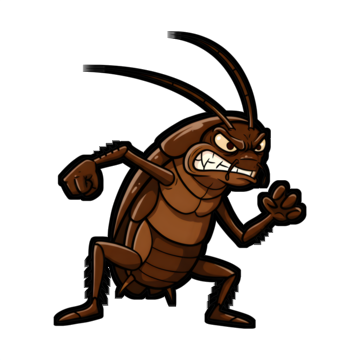
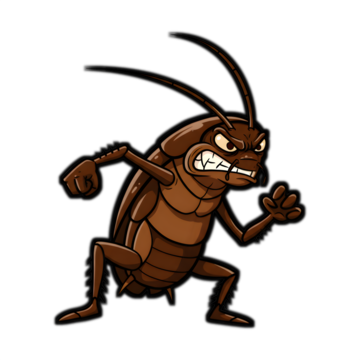
🪳 Zerg meter: decay to blue is now slow and gradual — 10 s wait, then the next 10 s sinking (or rising) to the player's own value on a linear glide (a new fight interrupts it at once); roach outline 2px black, smooth (soft edge) and meter outline 2px black with rounded corners; mark numbers 30% smal

diff --git a/zerg-meter.html b/zerg-meter.html
@@ -18,11 +18,12 @@
      in <head> before the first paint, so there is no black flash. */
   html.zm-transparent, html.zm-transparent body { background: transparent; }
   body { min-height: 100vh; min-height: 100dvh; display: grid; place-items: center; overflow: hidden; }
-  .zm { position: relative; height: min(96vh, 96dvh); aspect-ratio: 480 / 2239; outline: 2px solid #000; }
+  .zm { position: relative; height: min(96vh, 96dvh); aspect-ratio: 480 / 2239; outline: 2px solid #000; border-radius: 12px; }
   /* 2px black outline for the meter itself (owner 2026-11-13): it frames
      the meter on a stream overlay (invisible on the black page, where the
      background is already black). An outline, not a border, so it adds no
-     size and cannot push the meter off the viewport. */
+     size and cannot push the meter off the viewport. The rounded corners
+     (the outline follows the radius) keep it smooth, like the roach's. */
   .zm-bg { position: absolute; inset: 0; width: 100%; height: 100%; display: block; }
   /* Roach rides the bar (bar centre 35.27% of the image width); the laser
      runs at its eye level (41.4% of the sprite height) from just behind the
@@ -58,7 +59,7 @@
      Known marks put it just right of the line; unknown marks (left side)
      put it just left of the line, right-aligned. A dark shadow keeps it
      readable over the scale digits and over a stream. */
-  .zm-mark-num { position: absolute; transform: translateY(-50%); font: 700 1.7vh/1 system-ui, sans-serif; color: #ff2020; text-shadow: 0 0 3px #000, 0 0 6px #000; pointer-events: none; }
+  .zm-mark-num { position: absolute; transform: translateY(-50%); font: 700 1.2vh/1 system-ui, sans-serif; color: #ff2020; text-shadow: 0 0 3px #000, 0 0 6px #000; pointer-events: none; }
   .zm-mark-num.zm-green { color: #22ff22; }
   .zm-mark-num.zm-yellow { color: #ffd21f; }
 </style>
@@ -67,8 +68,8 @@
   <main class="zm" id="zergMeter" role="img" aria-label="Live Zerg meter">
     <img class="zm-bg" src="assets/zerg-meter-bg.png" alt="">
     <div class="zm-laser" id="zmLaser" hidden></div>
-    <img class="zm-roach" id="zmRoach" src="assets/zerg-roach.png?v=20261113-roach2" alt="" hidden>
+    <img class="zm-roach" id="zmRoach" src="assets/zerg-roach.png?v=20261113-roach3" alt="" hidden>
   </main>
-  <script type="module" src="zerg-meter.mjs?v=20261113-zm11"></script>
+  <script type="module" src="zerg-meter.mjs?v=20261113-zm12"></script>
 </body>
 </html>
